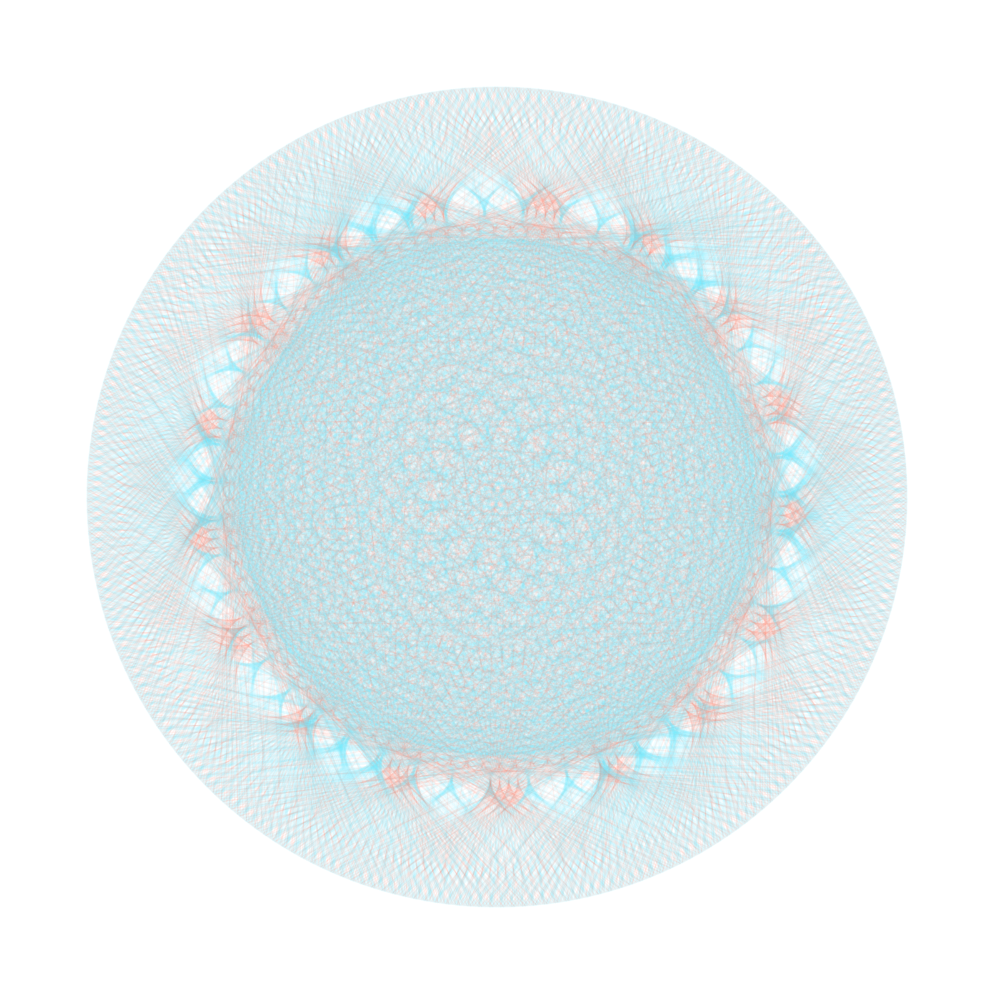
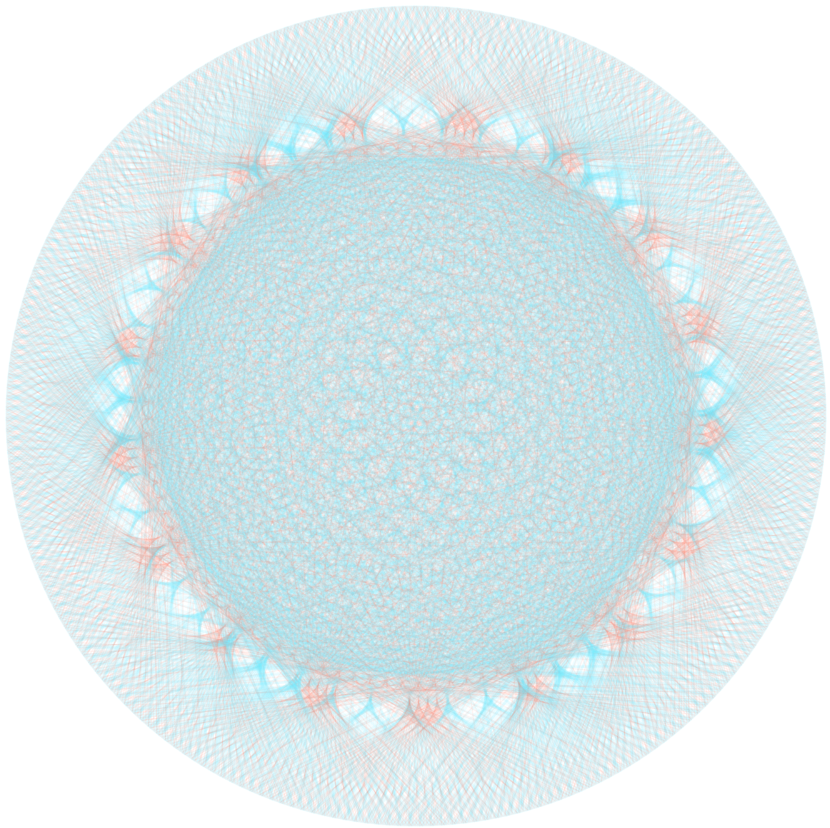
layout improvement

diff --git a/style.css b/style.css
@@ -2,6 +2,8 @@
     --bg: #fff;
     --fg: #222;
     --dim: #777;
+    --bar-top: #5a5a5a;
+    --bar-bottom: #3c3c3c;
 }
 
 @media (prefers-color-scheme: dark) {
@@ -9,6 +11,8 @@
         --bg: #161616;
         --fg: #e6e6e6;
         --dim: #999;
+        --bar-top: #484848;
+        --bar-bottom: #2f2f2f;
     }
 }
 
@@ -27,6 +31,16 @@ a {
 
 header {
     margin-bottom: 2rem;
+}
+
+header.row {
+    display: flex;
+    align-items: center;
+    gap: 1rem;
+}
+
+.bar {
+    flex: 1;
 }
 
 header.top {
@@ -50,39 +64,49 @@ header.top h1 {
     font-size: 1.35rem;
 }
 
-#list {
-    display: grid;
-    grid-template-columns: repeat(auto-fill, minmax(min(360px, 100%), 1fr));
-    column-gap: 2rem;
-}
-
-article {
-    display: grid;
-    grid-row: span 2;
-    grid-template-rows: subgrid;
-}
-
-/* row 1 = image, row 2 = text, shared across each row of cards */
-article>a {
-    align-self: center;
-}
-
-/* images centred vertically in their row */
-article>div {
-    padding-bottom: 2.5rem;
-}
-
-/* text always starts at the top of its row */
 article img {
     width: 100%;
     display: block;
 }
 
-h2 {
-    font-size: 1.15rem;
-    margin: .5rem 0 0;
+article {
+    display: grid;
+    grid-template-columns: minmax(0, 3fr) minmax(0, 2fr);
+    gap: 1rem 1.5rem;
+    margin-bottom: 3rem;
 }
 
+article>div {
+    align-self: start;
+}
+
+/* text to the right of the image, top-aligned */
+h2 {
+    grid-column: 1 / -1;
+}
+
+h2,
+.bar {
+    margin: 0;
+    padding: .5rem .75rem;
+    font-size: 1.15rem;
+    background: linear-gradient(var(--bar-top), var(--bar-bottom));
+    border-radius: 8px;
+    color: #fff;
+}
+
+/* title bar spans image + text */
+h2 a {
+    text-decoration: none;
+}
+
+@media (max-width: 560px) {
+    article {
+        grid-template-columns: 1fr;
+    }
+}
+
+/* phones: text drops below the image */
 p {
     margin: .25rem 0;
 }

diff --git a/sketch.html b/sketch.html
@@ -7,16 +7,14 @@
   <link rel="stylesheet" href="style.css">
 </head>
 <body class="sketch">
-  <header>
+  <header class="row">
     <a href="index.html" aria-label="Home" title="Home">
       <svg width="24" height="24" viewBox="0 0 24 24" fill="none" stroke="currentColor" stroke-width="2" stroke-linecap="round" stroke-linejoin="round"><path d="M3 11l9-8 9 8"/><path d="M5 10v10h5v-6h4v6h5V10"/></svg>
     </a>
+    <h1 id="title" class="bar"></h1>
   </header>
 
-  <h1 id="title"></h1>
   <div id="sketch"></div>
-  <p id="caption"></p>
-  <p id="meta" class="meta"></p>
 
   <script>
     const P5_URL = 'https://cdnjs.cloudflare.com/ajax/libs/p5.js/2.2.3/p5.min.js';
@@ -35,9 +33,6 @@
 
       document.title = s.title;
       document.getElementById('title').textContent = s.title;
-      document.getElementById('caption').textContent = s.caption;
-      document.getElementById('meta').textContent =
-        [s.date, (s.tags || []).join(', ')].filter(Boolean).join(' · ');
 
       await load(P5_URL);
       for (const lib of s.libs || []) await load(lib);   // optional extra libraries

diff --git a/index.html b/index.html
@@ -24,9 +24,9 @@
       sketches.sort((a, b) => b.date.localeCompare(a.date)); // newest first
       document.getElementById('list').innerHTML = sketches.map(s => `
         <article>
+          <h2><a href="sketch.html?id=${s.id}">${s.title}</a></h2>
           <a href="sketch.html?id=${s.id}"><img src="${s.image}" alt="${s.title}"></a>
           <div>
-            <h2><a href="sketch.html?id=${s.id}">${s.title}</a></h2>
             <p>${s.caption}</p>
             <p class="meta">${s.date} &middot; ${(s.tags || []).join(', ')}</p>
           </div>
